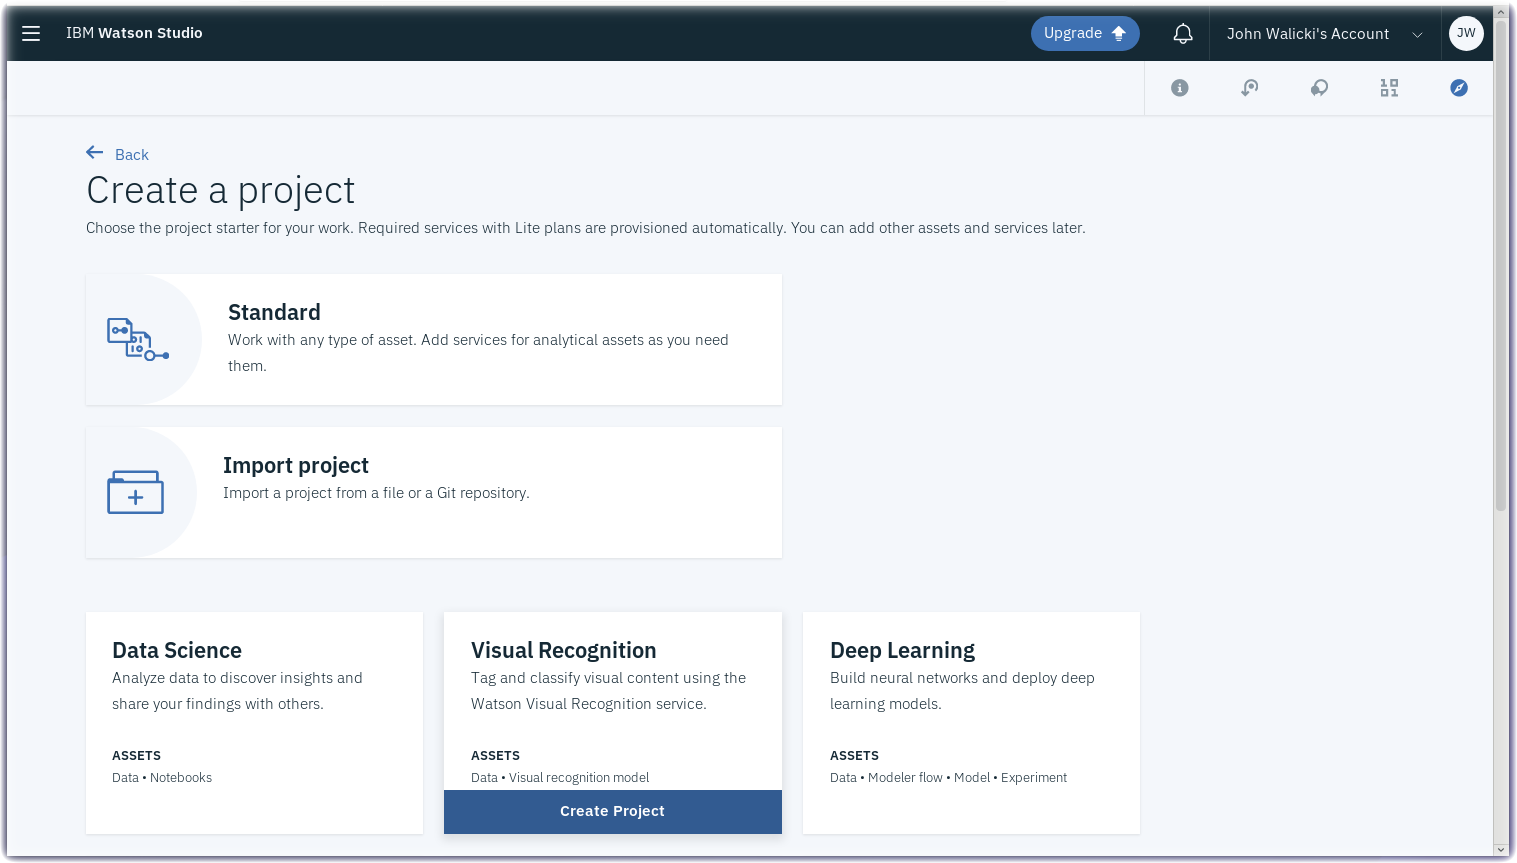
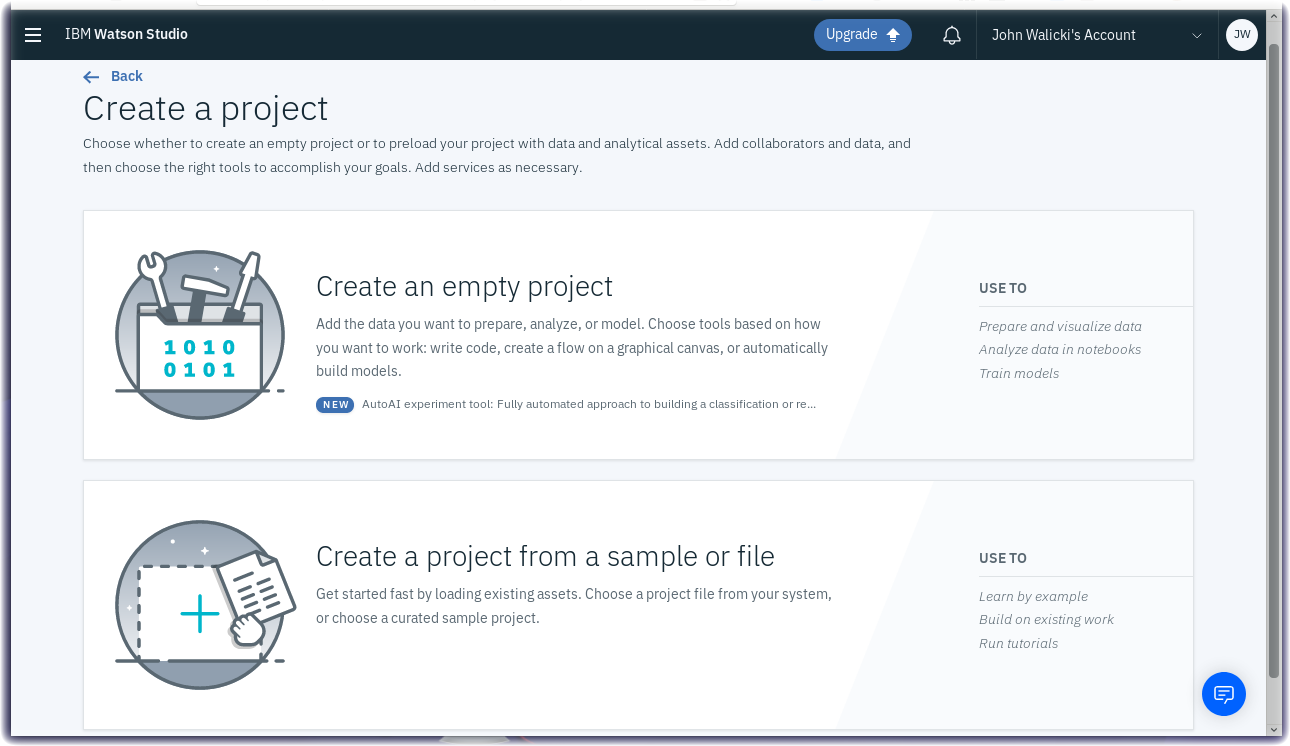
Coffee or Donut Classifier

diff --git a/STUDIO.md b/STUDIO.md
@@ -56,9 +56,47 @@ Projects are your workspace to organize your resources, such as assets like data
 
 ![Watson Studio Welcome screenshot](screenshots/WatsonStudio-Welcome.png)
 
-- Select the **Visual Recognition** tile and press the **Create Project** button
+- Select the **Create an empty project** tile
 
 ![Watson Studio New project screenshot](screenshots/WatsonStudio-CreateNewProject.png)
+
+- Give your Project a name : **Coffee or Donuts**
+- Click on **Add** to define a Cloud Object Storage instance
+
+![Watson Studio New project screenshot](screenshots/WatsonStudio-NewProject.png)
+
+#### Create Cloud Object Storage
+- You will store images and training data in a Cloud Object Storage bucket
+- Select the **Lite** plan and note the features
+- Scroll to the bottom and click on the **Create** button and then **Confirm** to create a Cloud Object Storage instance.
+
+![Cloud Object Storage Service screenshot](screenshots/CloudObjectStorage-Service.png)
+
+
+- Click on **Refresh** on the New Project tab.
+- Click on **Create** to create the new project.
+
+![Watson Studio New project screenshot](screenshots/WatsonStudio-NewProject-Continue.png)
+
+- Click on **Add to project**
+
+![Watson Studio Add to Project screenshot](screenshots/WatsonStudio-Project-Add2Project.png)
+
+- Select **Image classification model** on the **Choose asset type** popup.
+
+![Watson Studio Add Image Classification screenshot](screenshots/WatsonStudio-Project-AddImageClassification.png)
+
+#### Provision a new Watson Visual Recognition Service instance
+- Your project needs to be associated with a Watson Visual Recognition Service instance
+- Click on the **click here** link in the popup to Associate a Watson Visual Recognition service.
+
+![Watson Studio Associate Watson Visual Recognition screenshot](screenshots/WatsonStudio-Project-AssociateVisualRecognition.png)
+
+#### Create a Watson Visual Recognition Service
+- Select the **Lite** plan and note the features
+- Scroll to the bottom and click on the **Create** button
+
+![Watson Visual Recognition New Service Instance screenshot](screenshots/WatsonStudio-VisualRecognitionServiceInstance.png)
 
 - Select a region for Visual Recognition
 
@@ -67,14 +105,6 @@ Projects are your workspace to organize your resources, such as assets like data
 - Watson Studio will spin for a few seconds while **Preparing Watson Studio** project.  New instances of Watson Visual Recognition and Cloud Object Storage will be created.
 
 ![Watson Studio Select Region screenshot](screenshots/WatsonStudio-PrepareProject-COS.png)
-
-- Give your Project a name : **Coffee or Donuts**
-- The new Cloud Object Storage instance will be prefilled.
-- The new Watson Visual Recognition service instance will be prefilled.
-
-- Press the **Create** button
-
-![Watson Studio New project screenshot](screenshots/WatsonStudio-NewProject.png)
 
 You are ready to set up your Project with Watson Visual Recognition. Proceed to the next [step](VISRECO.md)
 

diff --git a/VISRECO.md b/VISRECO.md
@@ -19,7 +19,7 @@ Projects are your workspace to organize your resources, such as assets like data
 
 ![Watson Studio  screenshot](screenshots/WatsonStudio-VisualRecognitionModelRename1.png)
 
-- Rename the model to **CoffeeorDonuts**
+- Rename the model to **Coffee or Donuts**
 
 ![Watson Studio  screenshot](screenshots/WatsonStudio-VisualRecognitionModelRename2.png)
 
@@ -44,7 +44,7 @@ Projects are your workspace to organize your resources, such as assets like data
 
 - Add a third custom class by clicking on the **+** symbol again
 
-- Name this class **Rescue boat**
+- Name this class **Donut**
 - Click the **Create** button
 
 ![Watson Studio  screenshot](screenshots/WatsonStudio-VisualRecognitionModelDonutsClass3.png)
@@ -82,9 +82,7 @@ Projects are your workspace to organize your resources, such as assets like data
 
 ![Watson Studio  screenshot](screenshots/WatsonStudio-VisualRecognitionModelZipFile2DonutClass.png)
 
-[//] # - Grab the **suburban-neighborhood.zip** from the right navigation and drag it to the **Negative** class
-
-[//] # ![Watson Studio  screenshot](screenshots/WatsonStudio-VisualRecognitionModelZipFile2NegativeClass.png)
+- This custom classifier does not contain a **Negative** zip file.  It is recommended but not required.
 
 #### Train your Watson Visual Recognition Custom Classifier
 - Click on the **Train Model** button

diff --git a/VRMTEST.md b/VRMTEST.md
@@ -57,7 +57,7 @@ In the IBM Cloud Dashboard, search for and open your instance of *Watson Visual 
 - **Classify an image (GET)**
 
   ```
-  curl -u "apikey:{apikey}" "https://gateway.watsonplatform.net/visual-recognition/api/v3/classify?url=https://watson-developer-cloud.github.io/doc-tutorial-downloads/visual-recognition/fruitbowl.jpg&version=2018-03-19&classifier_ids=CofCoffeeorDonuts_418020421"
+  curl -u "apikey:{apikey}" "https://gateway.watsonplatform.net/visual-recognition/api/v3/classify?url=https://watson-developer-cloud.github.io/doc-tutorial-downloads/visual-recognition/fruitbowl.jpg&version=2018-03-19&classifier_ids=CoffeeorDonuts_418020421"
   ```
 
 - **Classify an image (POST)**
@@ -70,7 +70,6 @@ In the IBM Cloud Dashboard, search for and open your instance of *Watson Visual 
   You have completed the Coffee or Donuts Visual Recognition Lab and have identified Coffee Bags, Coffee Mugs and yummy donuts.
 
 ### Visual Recognition - Additional References
-- [Call for Code Visual Recognition](https://developer.ibm.com/callforcode/resources/visual-recognition/)
 - [Locate and count items with object detection](https://developer.ibm.com/code/patterns/locate-and-count-items-with-object-detection/)
 - [MAX Object Detection](https://developer.ibm.com/exchanges/models/all/max-object-detector/)
 
